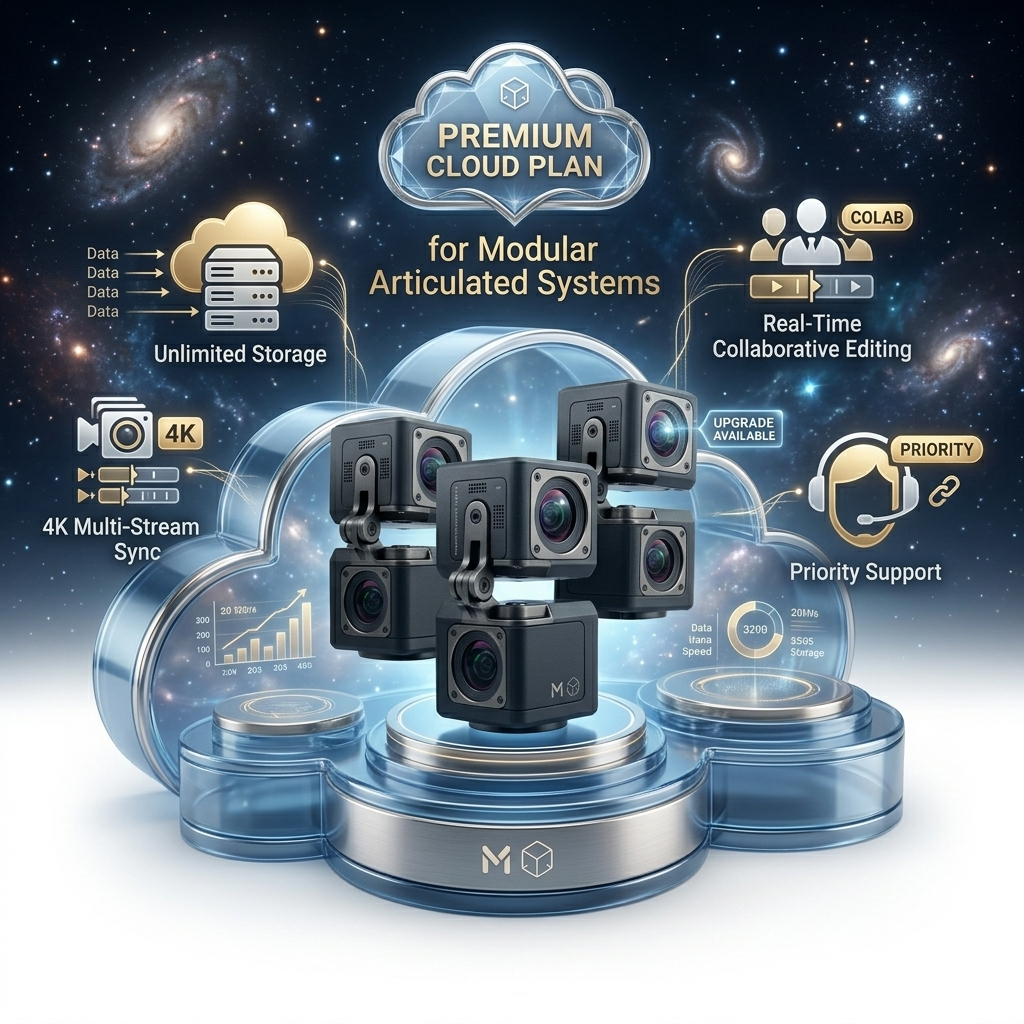
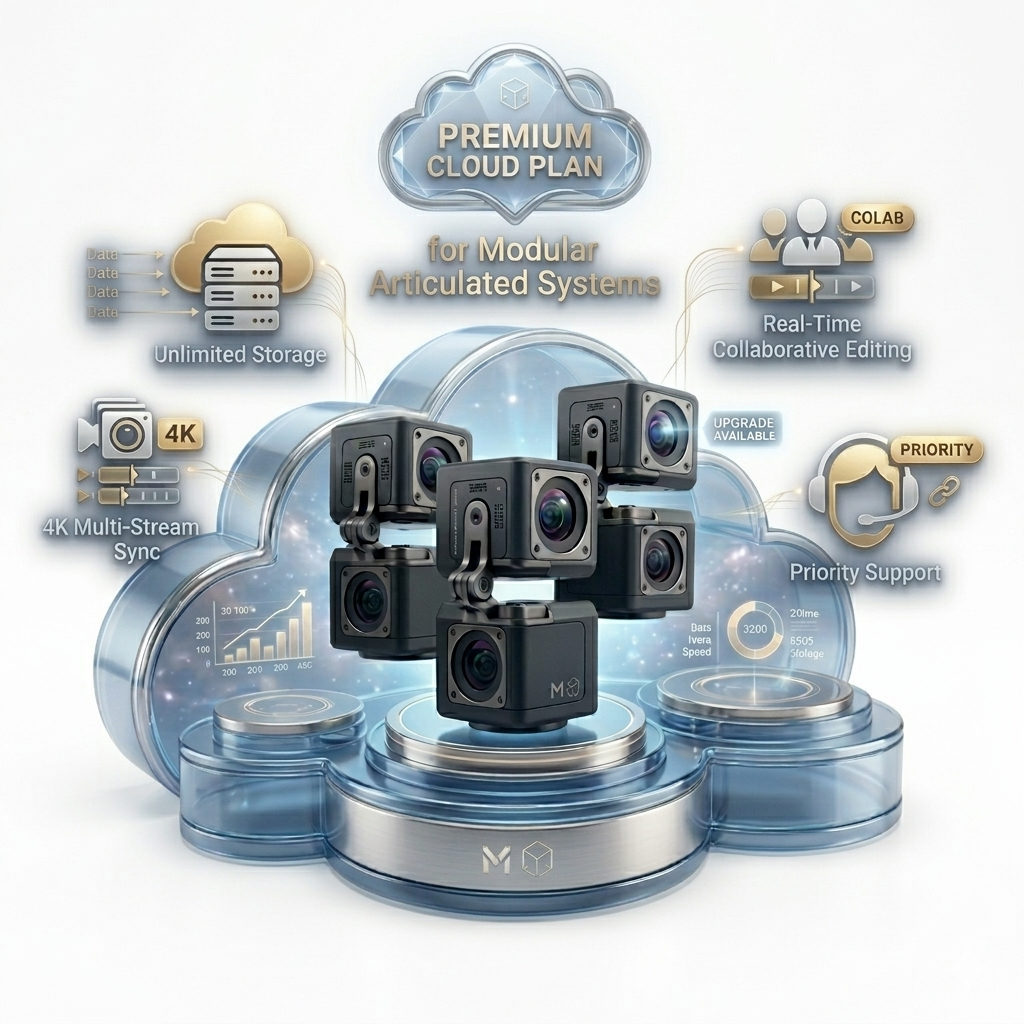
fix: bundle store

diff --git a/src/store/bundleStore.ts b/src/store/bundleStore.ts
@@ -21,7 +21,11 @@ interface BundleState {
     variantId: string,
   ) => void;
 
-  // Derived (computed in selectors below)
+  // Hydration
+  _hasHydrated: boolean;
+  setHasHydrated: (state: boolean) => void;
+  // eslint-disable-next-line @typescript-eslint/no-explicit-any
+  _stepsData?: any;
 }
 
 export const useBundleStore = create<BundleState>()(
@@ -29,6 +33,7 @@ export const useBundleStore = create<BundleState>()(
     (set) => ({
       steps: initialSteps,
       activeStep: 0,
+      _hasHydrated: false,
 
       setActiveStep: (index) =>
         set((state) => ({
@@ -69,9 +74,62 @@ export const useBundleStore = create<BundleState>()(
             };
           }),
         })),
+
+      setHasHydrated: (state) => set({ _hasHydrated: state }),
     }),
     {
       name: "bundle-builder-config",
+      partialize: (state) => ({
+        // Only persist these fields, not the JSX elements in steps
+        activeStep: state.activeStep,
+        _hasHydrated: state._hasHydrated,
+        // Store only the quantity and variant data
+        _stepsData: state.steps.map((step) => ({
+          id: step.id,
+          products: step.products.map((p) => ({
+            id: p.id,
+            qty: p.qty,
+            activeVariant: p.activeVariant,
+            variants:
+              p.variants?.map((v) => ({ id: v.id, qty: v.qty })) || null,
+          })),
+        })),
+      }),
+      onRehydrateStorage: () => (state) => {
+        if (state && state._stepsData) {
+          // Merge persisted data back into initialSteps
+          const stepsData = state._stepsData;
+          state.steps = initialSteps.map((step) => {
+            const stepData = stepsData.find(
+              (s: { id: string }) => s.id === step.id,
+            );
+            if (!stepData) return step;
+            return {
+              ...step,
+              products: step.products.map((p) => {
+                const productData = stepData.products.find(
+                  (pd: { id: string }) => pd.id === p.id,
+                );
+                if (!productData) return p;
+                return {
+                  ...p,
+                  qty: productData.qty,
+                  activeVariant: productData.activeVariant,
+                  variants:
+                    p.variants?.map((v) => {
+                      const variantData = productData.variants?.find(
+                        (vd: { id: string }) => vd.id === v.id,
+                      );
+                      return variantData ? { ...v, qty: variantData.qty } : v;
+                    }) || null,
+                };
+              }),
+            };
+          });
+          delete state._stepsData;
+        }
+        if (state) state.setHasHydrated(true);
+      },
     },
   ),
 );
@@ -95,12 +153,15 @@ export function useReviewItems(): ReviewItem[] {
               productId: p.id,
               variantId: v.id,
               name: `${p.name} – ${v.label}`,
+              assets: p.assets,
               image: v.image || p.image,
               price: p.price,
               comparePrice: p.comparePrice,
               priceSuffix: p.priceSuffix,
               qty: v.qty,
               category,
+              maxQty: p.maxQty,
+              isFree: p.isFree,
             });
           }
         });
@@ -113,6 +174,7 @@ export function useReviewItems(): ReviewItem[] {
             productId: p.id,
             variantId: null,
             name: p.name,
+            assets: p.assets,
             image: p.image,
             price: p.price,
             comparePrice: p.comparePrice,
@@ -154,4 +216,10 @@ export function useSelectedCounts(): number[] {
     });
     return count;
   });
+}
+
+// Hydration check hook
+export function useHasHydrated() {
+  const hasHydrated = useBundleStore((s) => s._hasHydrated);
+  return hasHydrated;
 }

diff --git a/src/App.tsx b/src/App.tsx
@@ -1,12 +1,25 @@
-import { useBundleStore, useSelectedCounts } from "./store/bundleStore";
+import {
+  useBundleStore,
+  useSelectedCounts,
+  useHasHydrated,
+} from "./store/bundleStore";
 import AccordionStep from "./components/AccordionStep";
 import ReviewPanel from "./components/ReviewPanel";
 
 export default function App() {
+  const hasHydrated = useHasHydrated();
   const steps = useBundleStore((s) => s.steps);
   const activeStep = useBundleStore((s) => s.activeStep);
   const setActiveStep = useBundleStore((s) => s.setActiveStep);
   const selectedCounts = useSelectedCounts();
+
+  if (!hasHydrated) {
+    return (
+      <div className="min-h-screen bg-gray-50 flex items-center justify-center">
+        <p className="text-gray-500">Loading...</p>
+      </div>
+    );
+  }
 
   return (
     <div className="min-h-screen bg-gray-50">

diff --git a/src/components/ProductCard.tsx b/src/components/ProductCard.tsx
@@ -23,7 +23,8 @@ export default function ProductCard({ product, stepId }: Props) {
     setQty(stepId, product.id, product.activeVariant, qty);
   };
 
-  const displayImage = activeVariant?.image || firstVariant?.image || product.image;
+  const displayImage =
+    activeVariant?.image || firstVariant?.image || product.image;
 
   return (
     <div
@@ -45,11 +46,7 @@ export default function ProductCard({ product, stepId }: Props) {
 
       {/* Image */}
       <div className="w-full xl:w-1/3 aspect-4/3 overflow-hidden flex items-center justify-center">
-        <img
-          src={displayImage}
-          alt={product.name}
-          className="object-cover w-full h-full"
-        />
+        <img src={displayImage} alt={product.name} className="w-full" />
       </div>
 
       {/* Body */}
@@ -59,9 +56,7 @@ export default function ProductCard({ product, stepId }: Props) {
         </h3>
         <p className="text-xs text-gray-500 leading-relaxed flex-1">
           {product.description}{" "}
-          <span
-            className="text-xs text-indigo-600 hover:underline font-medium cursor-pointer"
-          >
+          <span className="text-xs text-indigo-600 hover:underline font-medium cursor-pointer">
             Learn More
           </span>
         </p>

diff --git a/src/types/index.ts b/src/types/index.ts
@@ -9,10 +9,10 @@ export interface Variant {
 }
 
 export interface ProductVariant {
-    src: string;
-    alt: string;
-    types: Record<string, string>;
-  }
+  src: string;
+  alt: string;
+  types: Record<string, string>;
+}
 
 export interface Product {
   id: string;
@@ -49,7 +49,8 @@ export interface ReviewItem {
   productId: string;
   variantId: string | null;
   name: string;
-  image: string;
+  assets?: ProductVariant;
+  image?: string;
   price: number;
   comparePrice: number | null;
   priceSuffix?: string;